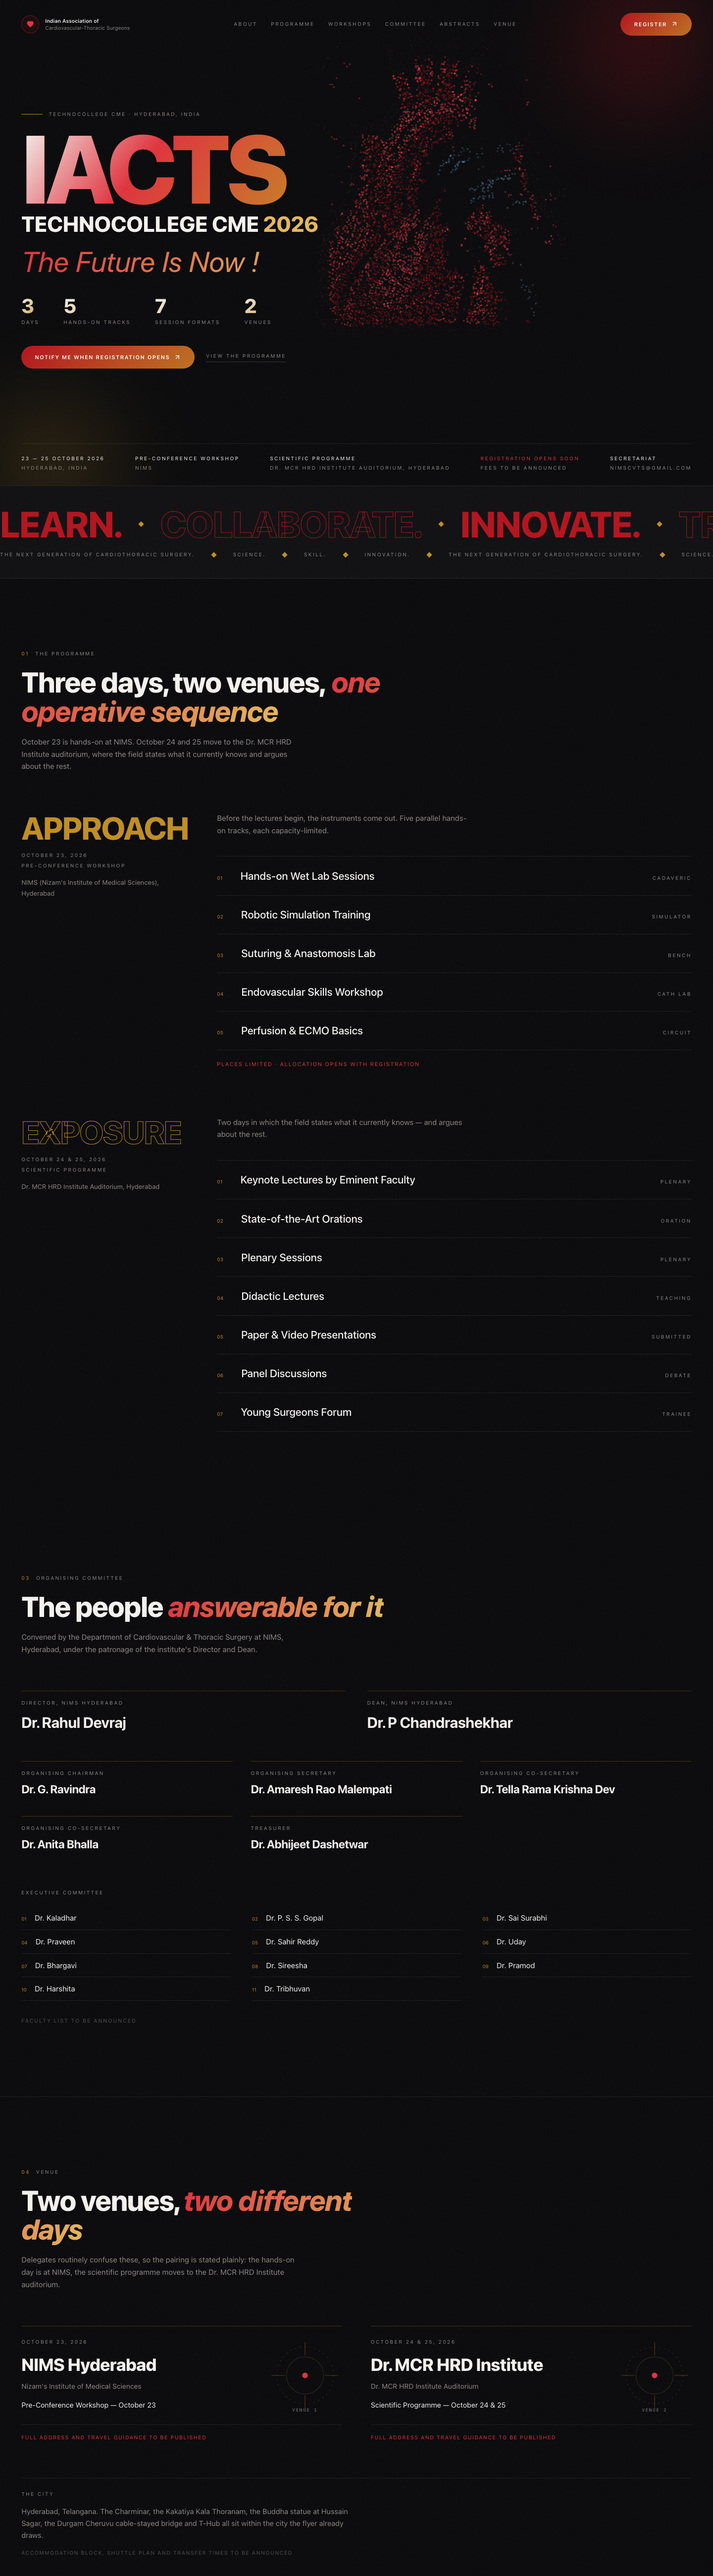
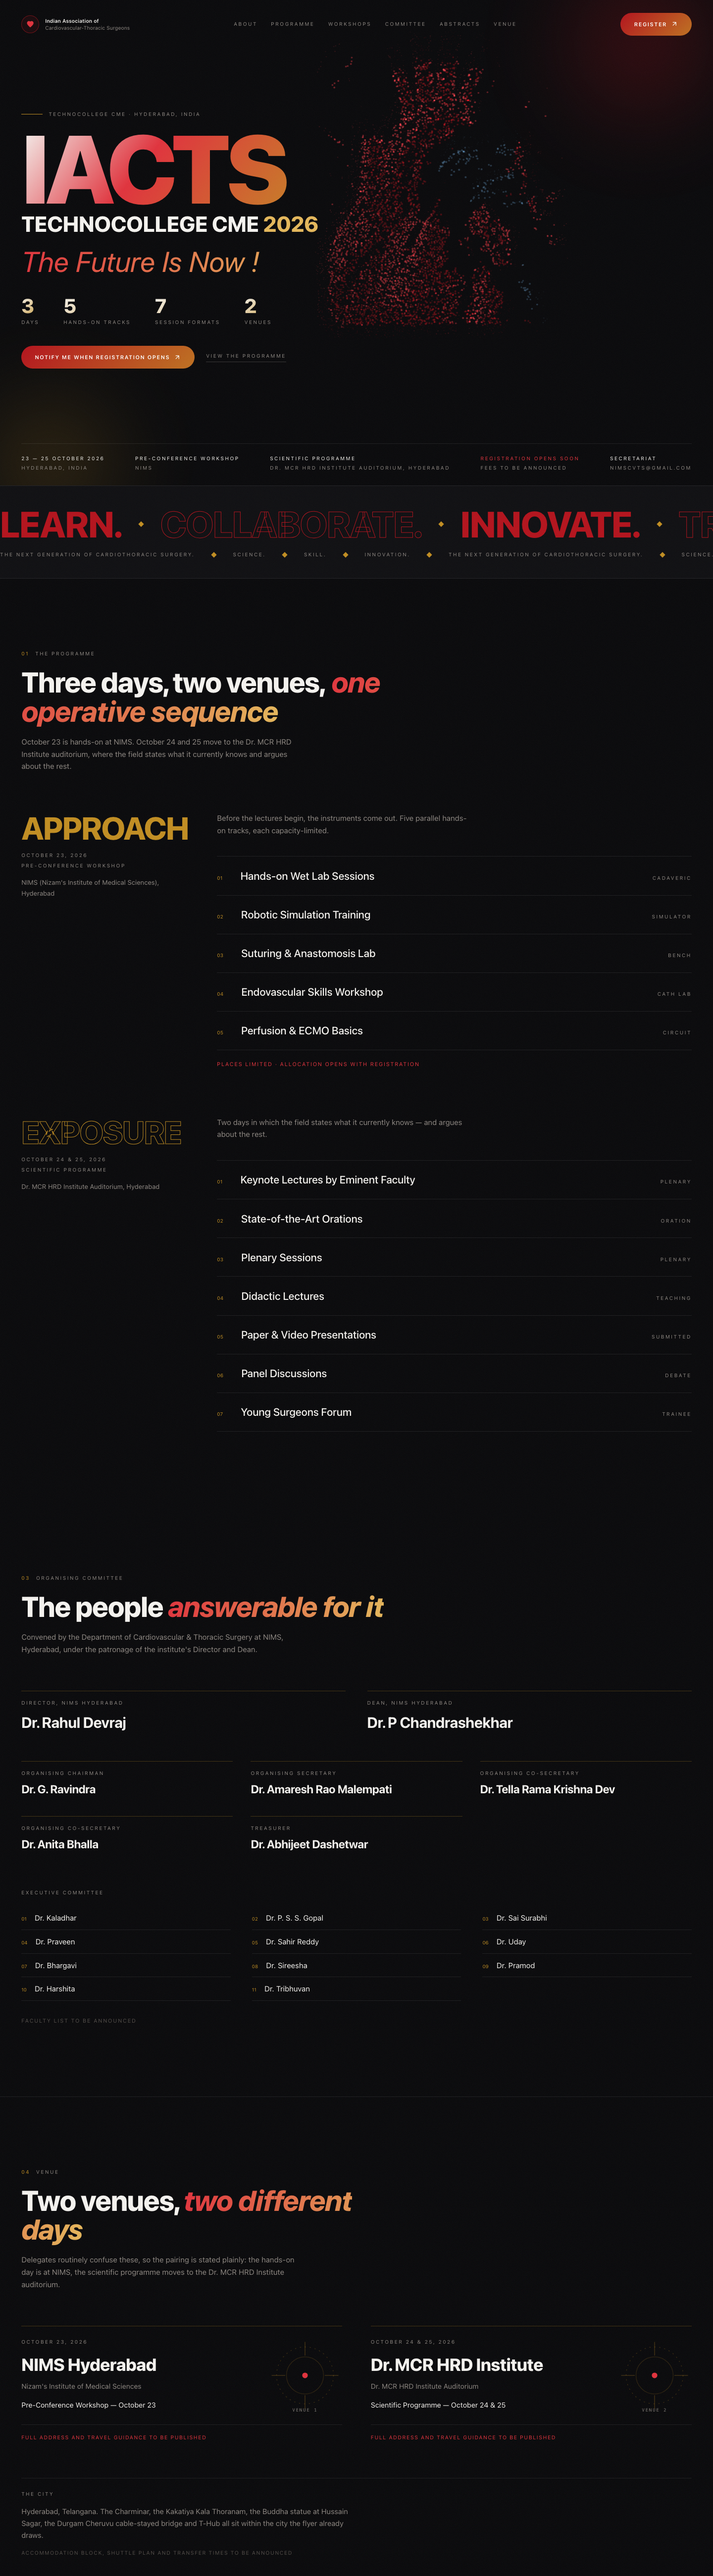
Phase 2 item 5: showpiece layer (loader, dock, magnetic hover)
Magnetic: hand-tuned spring (stiffness .16, damping .76) so it overshoots then
settles; pointer-fine only, rAF stops when at rest.
CinematicLoader: counts on a real clock with ease-out-expo, aria-hidden and
pointer-events-none, self-dismisses on a 3.2s backstop so a stalled clock can
never trap the page, never mounts under reduced motion.
Dock: appears past the hero, active section from IntersectionObserver over real
ids (not scroll arithmetic), scroll-progress rule, magnetic items.
Anchored #workshops and #abstracts on existing blocks.

Changed region(s): [[0.4375, 0.0, 0.75, 0.1246]]

diff --git a/web/src/components/site/Dock.tsx b/web/src/components/site/Dock.tsx
@@ -1,0 +1,88 @@
+"use client";
+
+import { useEffect, useState } from "react";
+import Magnetic from "@/components/ui/Magnetic";
+import { NAV_ITEMS } from "@/lib/constants";
+
+/**
+ * Floating dock. Appears once the hero is behind you, carries a scroll-progress
+ * rule, and highlights the section currently in view.
+ *
+ * Real nav, not decoration: the links are anchors, they are keyboard reachable,
+ * and the active state is driven by an IntersectionObserver over the actual
+ * section ids rather than by scroll arithmetic that drifts.
+ */
+export default function Dock() {
+  const [shown, setShown] = useState(false);
+  const [progress, setProgress] = useState(0);
+  const [active, setActive] = useState<string>("");
+
+  useEffect(() => {
+    const onScroll = () => {
+      const span = Math.max(1, document.body.scrollHeight - window.innerHeight);
+      setProgress(Math.min(1, window.scrollY / span));
+      setShown(window.scrollY > window.innerHeight * 0.7);
+    };
+    window.addEventListener("scroll", onScroll, { passive: true });
+    onScroll();
+
+    const ids = NAV_ITEMS.map((n) => n.href.slice(1));
+    const els = ids
+      .map((id) => document.getElementById(id))
+      .filter((e): e is HTMLElement => !!e);
+
+    const io = new IntersectionObserver(
+      (entries) => {
+        const vis = entries
+          .filter((e) => e.isIntersecting)
+          .sort((a, b) => b.intersectionRatio - a.intersectionRatio)[0];
+        if (vis) setActive(vis.target.id);
+      },
+      { rootMargin: "-45% 0px -45% 0px" },
+    );
+    els.forEach((e) => io.observe(e));
+
+    return () => {
+      window.removeEventListener("scroll", onScroll);
+      io.disconnect();
+    };
+  }, []);
+
+  return (
+    <nav
+      aria-label="Sections"
+      className="fixed bottom-[clamp(0.9rem,2.4vh,1.8rem)] left-1/2 z-50 -translate-x-1/2 transition-all duration-700 ease-[var(--ease-out-expo)]"
+      style={{
+        opacity: shown ? 1 : 0,
+        transform: `translate(-50%,${shown ? "0" : "18px"})`,
+        pointerEvents: shown ? "auto" : "none",
+      }}
+    >
+      <div className="overflow-hidden rounded-full border border-[var(--hair-gold)] bg-black/55 backdrop-blur-xl">
+        <div className="flex items-center gap-1 px-2 py-1.5">
+          {NAV_ITEMS.map((n) => {
+            const on = active === n.href.slice(1);
+            return (
+              <Magnetic key={n.href} strength={0.22}>
+                <a
+                  href={n.href}
+                  className={`block min-h-[34px] rounded-full px-3 py-2 font-mono text-[9.5px] uppercase tracking-[0.16em] no-underline transition-colors duration-300 ${
+                    on ? "bg-crimson text-bone" : "text-muted hover:text-bone"
+                  }`}
+                >
+                  {n.label}
+                </a>
+              </Magnetic>
+            );
+          })}
+        </div>
+        <div className="h-px w-full bg-white/10">
+          <div
+            className="h-px bg-gold transition-[width] duration-200 ease-out"
+            style={{ width: `${(progress * 100).toFixed(1)}%` }}
+          />
+        </div>
+      </div>
+    </nav>
+  );
+}

diff --git a/web/src/components/site/CinematicLoader.tsx b/web/src/components/site/CinematicLoader.tsx
@@ -1,0 +1,79 @@
+"use client";
+
+import { useEffect, useRef, useState } from "react";
+import { EVENT_INFO } from "@/lib/constants";
+
+/**
+ * Entrance curtain. Counts to 100 on a real clock, then lifts.
+ *
+ * Two safeguards, because a loader that fails to dismiss is worse than no
+ * loader at all: it self-dismisses on a hard timeout even if rAF stalls, and
+ * under reduced motion it never mounts. It is also aria-hidden and inert —
+ * screen readers and keyboard users go straight to the page.
+ */
+export default function CinematicLoader() {
+  const [pct, setPct] = useState(0);
+  const [gone, setGone] = useState(false);
+  const raf = useRef(0);
+
+  useEffect(() => {
+    if (window.matchMedia("(prefers-reduced-motion: reduce)").matches) {
+      setGone(true);
+      return;
+    }
+    const t0 = performance.now();
+    const DUR = 1500;
+
+    const step = (now: number) => {
+      const k = Math.min(1, (now - t0) / DUR);
+      // ease-out-expo so it sprints then settles
+      const eased = k === 1 ? 1 : 1 - Math.pow(2, -10 * k);
+      setPct(Math.round(eased * 100));
+      if (k < 1) raf.current = requestAnimationFrame(step);
+      else setTimeout(() => setGone(true), 260);
+    };
+    raf.current = requestAnimationFrame(step);
+
+    // hard backstop: never trap the page behind a stalled clock
+    const bail = setTimeout(() => setGone(true), 3200);
+
+    return () => {
+      cancelAnimationFrame(raf.current);
+      clearTimeout(bail);
+    };
+  }, []);
+
+  if (gone) return null;
+
+  return (
+    <div
+      aria-hidden="true"
+      className="pointer-events-none fixed inset-0 z-[80] flex flex-col justify-between bg-ink px-[clamp(1rem,3vw,3.25rem)] py-[clamp(1.2rem,3vh,2.4rem)] transition-opacity duration-500"
+      style={{ opacity: pct >= 100 ? 0 : 1 }}
+    >
+      <div className="flex items-start justify-between">
+        <p className="u-eyebrow">{EVENT_INFO.acronym} · Technocollege CME 2026</p>
+        <p className="u-eyebrow text-gold-lift">{EVENT_INFO.city}</p>
+      </div>
+
+      <div className="flex items-end justify-between gap-6">
+        <p className="u-serif text-[clamp(1.4rem,4vw,3rem)] leading-none">
+          {EVENT_INFO.theme}
+        </p>
+        <p
+          className="font-mono text-[clamp(2.4rem,7vw,6rem)] font-medium leading-none tabular-nums text-bone"
+          style={{ letterSpacing: "-0.04em" }}
+        >
+          {String(pct).padStart(3, "0")}
+        </p>
+      </div>
+
+      <div className="mt-[clamp(0.8rem,2vh,1.4rem)] h-px w-full bg-white/10">
+        <div
+          className="h-px bg-crimson-lift transition-[width] duration-150 ease-linear"
+          style={{ width: `${pct}%` }}
+        />
+      </div>
+    </div>
+  );
+}

diff --git a/web/src/components/ui/Magnetic.tsx b/web/src/components/ui/Magnetic.tsx
@@ -1,0 +1,73 @@
+"use client";
+
+import { useEffect, useRef, type ReactNode } from "react";
+
+/**
+ * Magnetic hover: the element leans toward the pointer and springs back.
+ *
+ * Pointer-fine only — on touch it would fire on every tap and feel broken.
+ * Spring return is hand-tuned rather than a library default: overshoot then
+ * settle, which is what makes it read as physical instead of eased.
+ */
+export default function Magnetic({
+  children,
+  strength = 0.3,
+  className = "",
+}: {
+  children: ReactNode;
+  strength?: number;
+  className?: string;
+}) {
+  const ref = useRef<HTMLSpanElement | null>(null);
+
+  useEffect(() => {
+    const el = ref.current;
+    if (!el) return;
+    if (window.matchMedia("(prefers-reduced-motion: reduce)").matches) return;
+    if (!window.matchMedia("(pointer: fine)").matches) return;
+
+    let raf = 0;
+    let tx = 0, ty = 0, x = 0, y = 0, vx = 0, vy = 0;
+    let engaged = false;
+
+    const tick = () => {
+      // critically-damped-ish spring: stiffness 0.16, damping 0.76
+      vx = (vx + (tx - x) * 0.16) * 0.76;
+      vy = (vy + (ty - y) * 0.16) * 0.76;
+      x += vx;
+      y += vy;
+      el.style.transform = `translate3d(${x.toFixed(2)}px,${y.toFixed(2)}px,0)`;
+      if (engaged || Math.abs(x) > 0.05 || Math.abs(y) > 0.05 || Math.abs(vx) > 0.01) {
+        raf = requestAnimationFrame(tick);
+      } else {
+        el.style.transform = "";
+        raf = 0;
+      }
+    };
+
+    const start = () => { if (!raf) raf = requestAnimationFrame(tick); };
+
+    const move = (e: PointerEvent) => {
+      const r = el.getBoundingClientRect();
+      tx = (e.clientX - (r.left + r.width / 2)) * strength;
+      ty = (e.clientY - (r.top + r.height / 2)) * strength;
+      engaged = true;
+      start();
+    };
+    const leave = () => { tx = 0; ty = 0; engaged = false; start(); };
+
+    el.addEventListener("pointermove", move);
+    el.addEventListener("pointerleave", leave);
+    return () => {
+      if (raf) cancelAnimationFrame(raf);
+      el.removeEventListener("pointermove", move);
+      el.removeEventListener("pointerleave", leave);
+    };
+  }, [strength]);
+
+  return (
+    <span ref={ref} className={`inline-block will-change-transform ${className}`}>
+      {children}
+    </span>
+  );
+}

diff --git a/web/src/app/concept2/page.tsx b/web/src/app/concept2/page.tsx
@@ -8,6 +8,8 @@ import Committee from "@/components/sections/Committee";
 import Venues from "@/components/sections/Venues";
 import RegisterCta from "@/components/sections/RegisterCta";
 import Footer from "@/components/sections/Footer";
+import CinematicLoader from "@/components/site/CinematicLoader";
+import Dock from "@/components/site/Dock";
 import { EVENT_INFO, NAV_ITEMS } from "@/lib/constants";
 
 const MODES: { id: BandMode; label: string; note: string }[] = [
@@ -22,6 +24,8 @@ export default function Concept2() {
 
   return (
     <>
+      <CinematicLoader />
+      <Dock />
       <main id="main">
       <section className="relative flex h-svh max-h-[980px] min-h-[620px] flex-col overflow-hidden">
         <div aria-hidden className="pointer-events-none absolute left-1/2 top-1/2 size-[52vw] -translate-x-1/2 -translate-y-1/2 rounded-full opacity-60 blur-[90px]"

diff --git a/web/src/app/concept3/page.tsx b/web/src/app/concept3/page.tsx
@@ -5,12 +5,16 @@ import Committee from "@/components/sections/Committee";
 import Venues from "@/components/sections/Venues";
 import RegisterCta from "@/components/sections/RegisterCta";
 import Footer from "@/components/sections/Footer";
+import CinematicLoader from "@/components/site/CinematicLoader";
+import Dock from "@/components/site/Dock";
 import { EVENT_INFO, STATS, NAV_ITEMS } from "@/lib/constants";
 import { highlights } from "@/data/conference";
 
 export default function Concept3() {
   return (
     <>
+      <CinematicLoader />
+      <Dock />
       <main id="main">
       <section className="relative flex h-svh max-h-[980px] min-h-[620px] flex-col overflow-hidden">
         <div aria-hidden className="pointer-events-none absolute -top-[10vw] left-1/2 size-[46vw] -translate-x-1/2 rounded-full opacity-50 blur-[90px]"

diff --git a/web/src/app/concept1/page.tsx b/web/src/app/concept1/page.tsx
@@ -5,6 +5,8 @@ import Committee from "@/components/sections/Committee";
 import Venues from "@/components/sections/Venues";
 import RegisterCta from "@/components/sections/RegisterCta";
 import Footer from "@/components/sections/Footer";
+import CinematicLoader from "@/components/site/CinematicLoader";
+import Dock from "@/components/site/Dock";
 import { EVENT_INFO, STATS, NAV_ITEMS } from "@/lib/constants";
 import { days, secretariat } from "@/data/conference";
 
@@ -19,6 +21,8 @@ function Arrow() {
 export default function Concept1() {
   return (
     <>
+      <CinematicLoader />
+      <Dock />
       <main id="main">
       <section className="relative flex h-svh max-h-[980px] min-h-[600px] flex-col overflow-hidden">
         {/* blurred radial colour fields — the depth layer */}

diff --git a/web/src/components/sections/Programme.tsx b/web/src/components/sections/Programme.tsx
@@ -29,7 +29,7 @@ export default function Programme() {
         </p>
       </header>
 
-      <div className="mt-[clamp(2.5rem,6vh,5rem)] grid gap-[clamp(2.5rem,6vh,6rem)]">
+      <div id="workshops" className="mt-[clamp(2.5rem,6vh,5rem)] grid gap-[clamp(2.5rem,6vh,6rem)]">
         {days.map((day, di) => (
           <article key={day.id} className="grid gap-[clamp(1rem,3vw,3.5rem)] lg:grid-cols-[minmax(0,26%)_minmax(0,1fr)]">
             <div className="lg:sticky lg:top-24 lg:self-start">

diff --git a/web/src/components/sections/Committee.tsx b/web/src/components/sections/Committee.tsx
@@ -72,7 +72,7 @@ export default function Committee() {
         ))}
       </div>
 
-      <div className="mt-[clamp(2.5rem,6vh,4.5rem)]">
+      <div id="abstracts" className="mt-[clamp(2.5rem,6vh,4.5rem)]">
         <p className="u-eyebrow" data-r>Executive Committee</p>
         <ul className="mt-5 grid list-none grid-cols-1 gap-x-[clamp(1.5rem,3vw,3.5rem)] p-0 sm:grid-cols-2 lg:grid-cols-3">
           {executiveCommittee.map((n, i) => (
